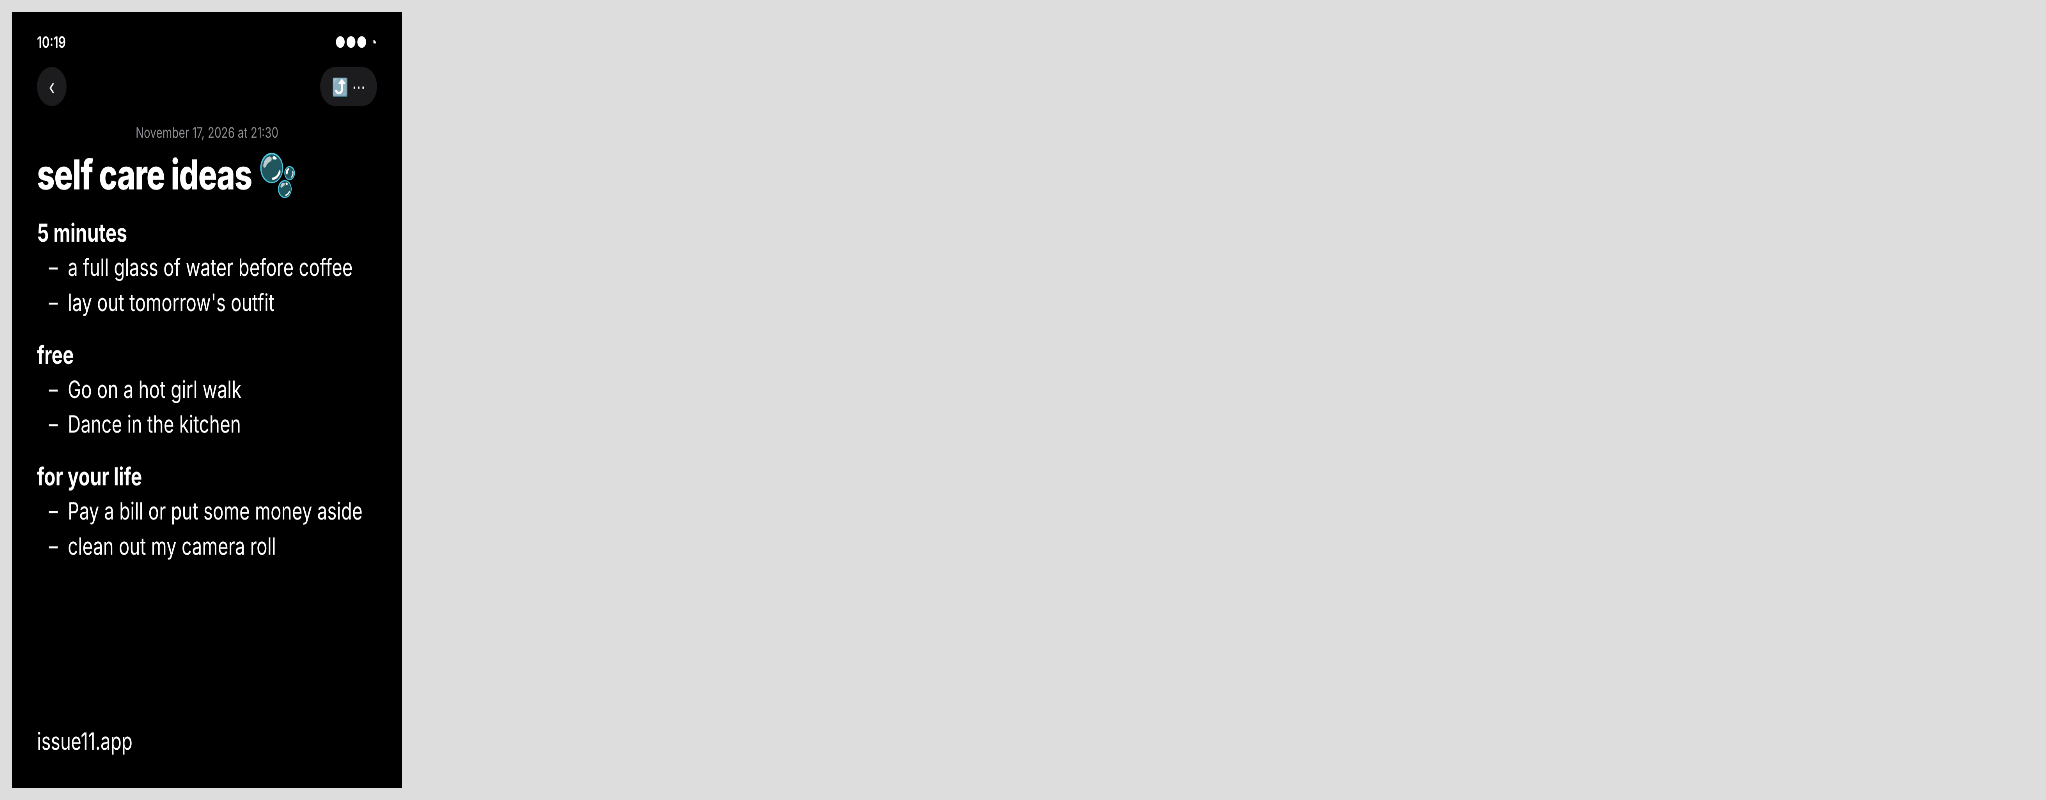
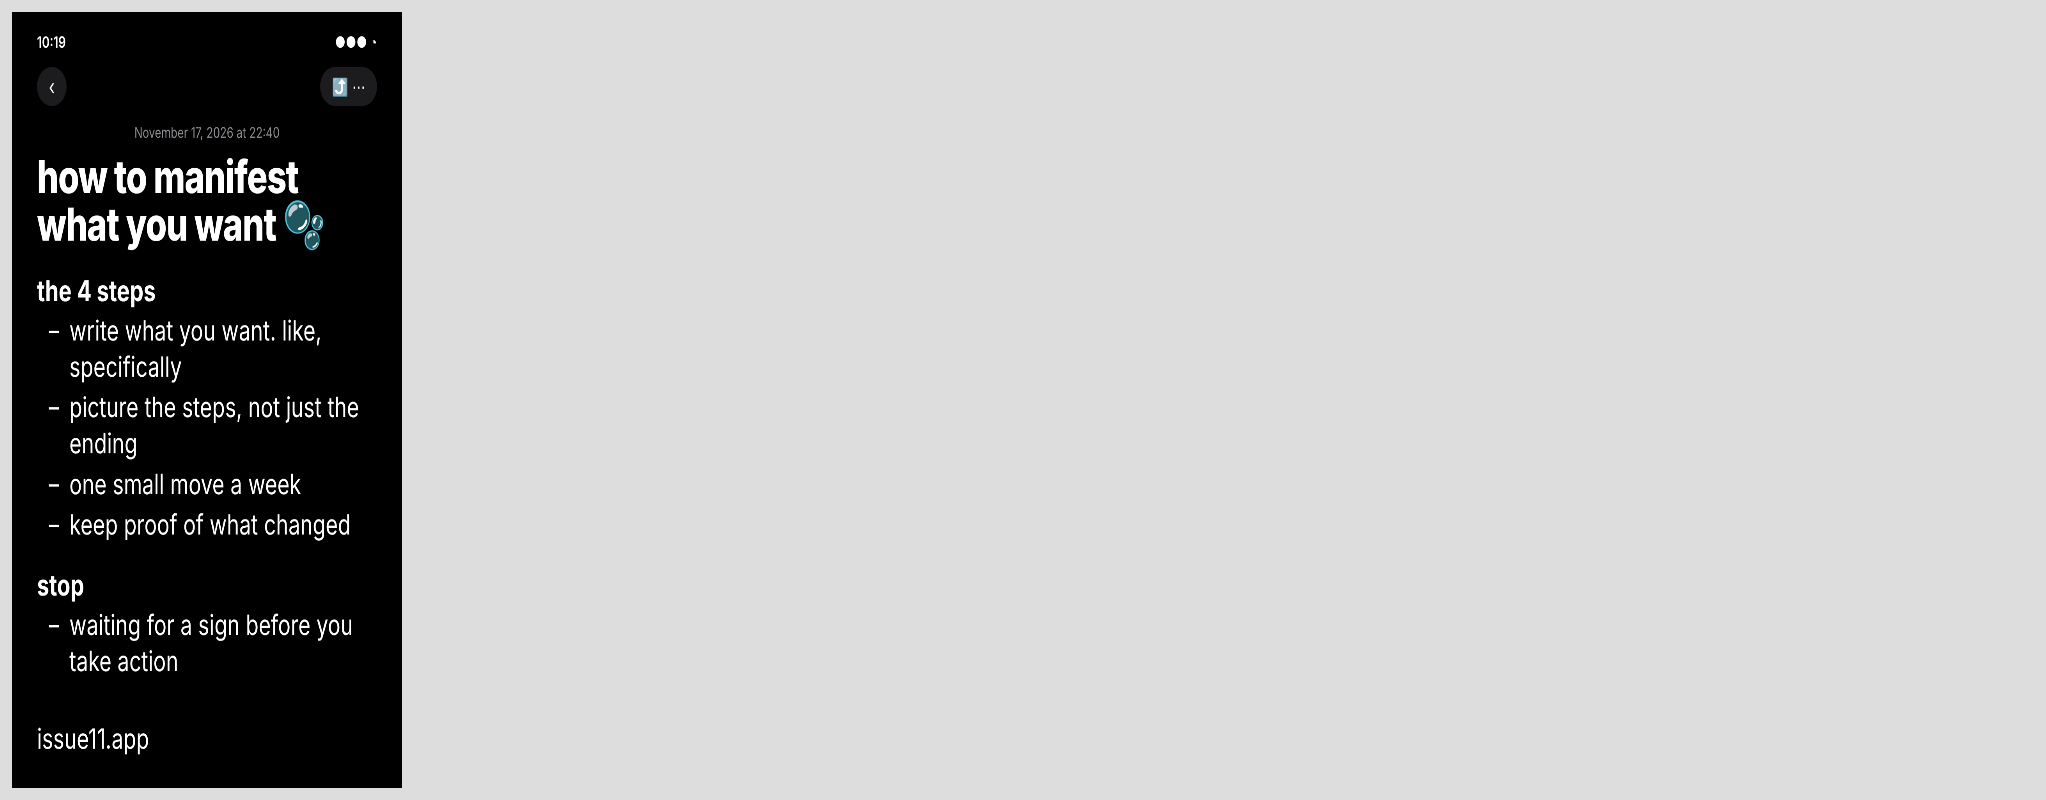
Hourly Pinterest: ArticlePinHTM (how-to-manifest, phone notes), ready for Framer
Claude-Session: https://claude.ai/code/session_01YGtmQppBCBt9nypMHzxSp1

Changed region(s): [[0.0, 0.1562, 0.1848, 0.6875], [0.0, 0.7188, 0.1848, 0.8438], [0.0, 0.9062, 0.0924, 0.9375]]

diff --git a/drafts/pinterest/article-pins/ArticlePinHTM.dc.html b/drafts/pinterest/article-pins/ArticlePinHTM.dc.html
@@ -1,0 +1,31 @@
+<!doctype html>
+<html lang="en">
+<head>
+<meta charset="utf-8">
+<title>Article pin · how-to-manifest · phone notes</title>
+<script src="./support.js"></script>
+</head>
+<body>
+<x-dc>
+<helmet>
+<link href="https://fonts.googleapis.com/css2?family=Inter+Tight:wght@400;500;600;700&amp;display=swap" rel="stylesheet">
+<style>body{margin:0}</style>
+</helmet>
+<div style="width:1000px; height:1500px; position:relative; overflow:hidden; background:#000; font-family:'Inter Tight', 'Apple Color Emoji','Noto Color Emoji','Segoe UI Emoji', sans-serif; color:#0D0D0D">
+<div style="position:absolute; inset:0; padding:40px 64px; font-family:-apple-system, 'SF Pro Text', 'Inter Tight', system-ui, sans-serif, 'Apple Color Emoji','Noto Color Emoji','Segoe UI Emoji'; color:#fff">
+  <div style="display:flex; justify-content:space-between; font-size:30px; font-weight:600"><span>10:19</span><span>●●● ◔</span></div>
+  <div style="display:flex; justify-content:space-between; margin-top:30px"><span style="width:76px; height:76px; border-radius:50%; background:#1c1c1e; display:flex; align-items:center; justify-content:center; font-size:40px">‹</span><span style="height:76px; padding:0 30px; border-radius:40px; background:#1c1c1e; display:flex; align-items:center; font-size:34px">⤴ ⋯</span></div>
+  <p style="margin:34px 0 0; text-align:center; font-size:28px; color:#8e8e93">November 17, 2026 at 22:40</p>
+  <h1 style="margin:22px 0 0; font-size:88px; font-weight:800; letter-spacing:-0.02em; line-height:1.05">how to manifest what you want 🫧</h1>
+  
+  <p style="margin:48px 0 6px; font-weight:700; font-size:56px">the 4 steps</p><div style="padding-left:30px; font-size:54px; line-height:1.3"><div style="display:flex; gap:26px; margin:8px 0"><span>–</span><span>write what you want. like, specifically</span></div><div style="display:flex; gap:26px; margin:8px 0"><span>–</span><span>picture the steps, not just the ending</span></div><div style="display:flex; gap:26px; margin:8px 0"><span>–</span><span>one small move a week</span></div><div style="display:flex; gap:26px; margin:8px 0"><span>–</span><span>keep proof of what changed</span></div></div><p style="margin:48px 0 6px; font-weight:700; font-size:56px">stop</p><div style="padding-left:30px; font-size:54px; line-height:1.3"><div style="display:flex; gap:26px; margin:8px 0"><span>–</span><span>waiting for a sign before you take action</span></div></div>
+<p style="position:absolute; left:64px; bottom:60px; margin:0; font-size:54px; line-height:1.3">issue11.app</p></div>
+</div>
+</x-dc>
+<script type="text/x-dc" data-dc-script data-props='{"$preview":{"width":1000,"height":1500}}'>
+class Component extends DCLogic {
+  renderVals() { return {}; }
+}
+</script>
+</body>
+</html>

diff --git a/drafts/pinterest/article-pins/INDEX.md b/drafts/pinterest/article-pins/INDEX.md
@@ -26,6 +26,7 @@ Source boards: Claude Design Lead Magnets canvas (https://claude.ai/artifact/MZr
 | ArticlePinMVB | issue11.app/blog/magazines-for-vision-board | png/ArticlePinMVB.png | Best Magazines for Vision Boards: Which to Pick for Each Goal + Where to Get Them Free | "Best magazines for vision boards" over a crystal walk-in closet photo, a list of magazines by goal (home, style, travel, work + money, body, food) and where to get them free | Pass 390 + 236 (Nov 17) | ready for Framer |
 | ArticlePinPAW | issue11.app/blog/positive-affirmations-for-women | png/ArticlePinPAW.png | Positive Affirmations for Women: 50 Short Daily Affirmations (Morning to Bedtime) | "Positive affirmations for women" over a crystal walk-in closet photo with the line "I am worthy of love, respect, and everything I desire", five topic tags and the 60-second routine | Pass 390 + 236 (Nov 17) | ready for Framer |
 | ArticlePinSCI | issue11.app/blog/self-care-ideas | png/ArticlePinSCI.png | Self Care Ideas: 5-Minute, Free + Life Self Care Ideas for Women | Dark iPhone Notes screenshot titled "self care ideas" with five of the article's ideas, rewritten in the live notes voice, under "5 minutes", "free" and "for your life" | Pass 390 + 236 (Nov 17) | ready for Framer |
+| ArticlePinHTM | issue11.app/blog/how-to-manifest | png/ArticlePinHTM.png | How to Manifest What You Want: 4 Steps That Actually Work | Dark iPhone Notes screenshot titled "how to manifest what you want" with the article's 4 steps in the live notes voice and a "stop" line | Pass 390 + 236 (Nov 17) | ready for Framer |
 
 Keyword check for ArticlePinVBE: Pinterest autocomplete (Apify, Nov 16) suggests "vision board examples" with "inspiration", "aesthetic", "life", "career" and "manifestation" variants. Raw: `../2026-11-16-vision-board-examples-keywords.json`. No volume figure from Pinterest; Google US 11,000/mo per QUEUE.md.
 
@@ -57,7 +58,7 @@ Keyword check for ArticlePinVM: Pinterest autocomplete (Apify, Nov 16) suggests 
 
 Keyword check for ArticlePinPV: Pinterest autocomplete (Apify, Nov 16) suggests "pinterest vision board ideas", "pinterest vision board aesthetic", "pinterest vision board examples" and "pinterest vision board template". Raw: `../2026-11-16-pinterest-vision-board-keywords.json`. Cover lines are the article's 4 step headings (shortened). First article pin in the approved magazine-cover template. The photo is an AI-generated library image (AI label applies if ever posted as a pin).
 
-Next articles without a pin (STRATEGY.md order, then the rest of the sitemap): how-to-manifest · does-manifestation-work · law-of-assumption · scripting-manifestation · mirror-work · best-manifestation-apps · becoming-her.
+Next articles without a pin (STRATEGY.md order, then the rest of the sitemap): does-manifestation-work · law-of-assumption · scripting-manifestation · mirror-work · best-manifestation-apps · becoming-her.
 
 ## Nov 17 publish note
 - All 18 images were added to their articles' Content, as the first block after the intro paragraph. NYVB2 sits before "How to Host a Vision Board Party". Published as Framer version 699f2d432.
@@ -70,3 +71,5 @@ Keyword check for ArticlePinMVB: Pinterest autocomplete (Apify, Nov 17) suggests
 Keyword check for ArticlePinPAW: Pinterest autocomplete (Apify, Nov 17) suggests "positive affirmation for women" with "list", "quotes", "motivation", "strength", "wallpaper" and "daily affirmations for women confidence". Raw: `../2026-11-17-positive-affirmations-for-women-keywords.json`. The article's 50 affirmations are not in BANK.md, so the pin quotes only Megan's BANK line and shows the 5 category names + the article's 60-second routine.
 
 Keyword check for ArticlePinSCI: Pinterest autocomplete (Apify, Nov 17) suggests "self-care ideas", "self-care ideas for women", "simple", "easy", "free" and "winter self care ideas". Raw: `../2026-11-17-self-care-ideas-keywords.json`. Made in the phone-notes format (Megan, Nov 17: "the phone notes format works"). The 5 ideas are copied word for word from the article. Text only, so no AI label is needed.
+
+Keyword check for ArticlePinHTM: Pinterest autocomplete (Apify, Nov 17): "how to manifest what you want" is the top suggestion (also money, love, a job, journal; skipped the specific-person ones per the copy rules). Raw: `../2026-11-17-how-to-manifest-keywords.json`. The 4 steps come from the article, rewritten in the notes voice (lesson Nov 17). The "stop" line is Megan's own words (from CT211).

diff --git a/drafts/pinterest/HOURLY-LOG.md b/drafts/pinterest/HOURLY-LOG.md
@@ -1,5 +1,6 @@
 # Pinterest agent: hourly log (newest first)
 
+- 2026-11-17 12:2x UTC · Job 1: made ArticlePinHTM (how-to-manifest) in the phone-notes format, with the article's 4 steps in the live notes voice plus Megan's "waiting for a sign before you take action" line. Added to the canvas and INDEX.md as "ready for Framer". Visual QA at 390 + 236 passed on the first try.
 - 2026-11-17 08:2x UTC · Job 1: made ArticlePinSCI (self-care-ideas) in the phone-notes format that is getting views, with 5 ideas copied from the article and issue11.app at the bottom. Added to the canvas and INDEX.md as "ready for Framer". Visual QA at 390 + 236 passed after one fix: 8 ideas made the text too small on a phone, so I cut it to 5.
 - 2026-11-17 04:2x UTC · Job 1: made ArticlePinPAW (positive-affirmations-for-women), a title + photo with Megan's BANK line "I am worthy of love, respect, and everything I desire", 5 topic tags and the article's 60-second routine. Added to the canvas and INDEX.md as "ready for Framer". Visual QA at 390 + 236 passed after one fix: the 3-line title ran into the subtitle, so I moved everything below it down.
 - 2026-11-17 00:2x UTC · Job 1: made ArticlePinMVB (magazines-for-vision-board), a title + magazines-by-goal list pin with a colour closet photo. Added to the canvas and INDEX.md as "ready for Framer". Visual QA at 390 + 236 passed after two fixes: swapped a low-res photo for a sharper one, then recropped it so the chandelier and closet show instead of just the table.
